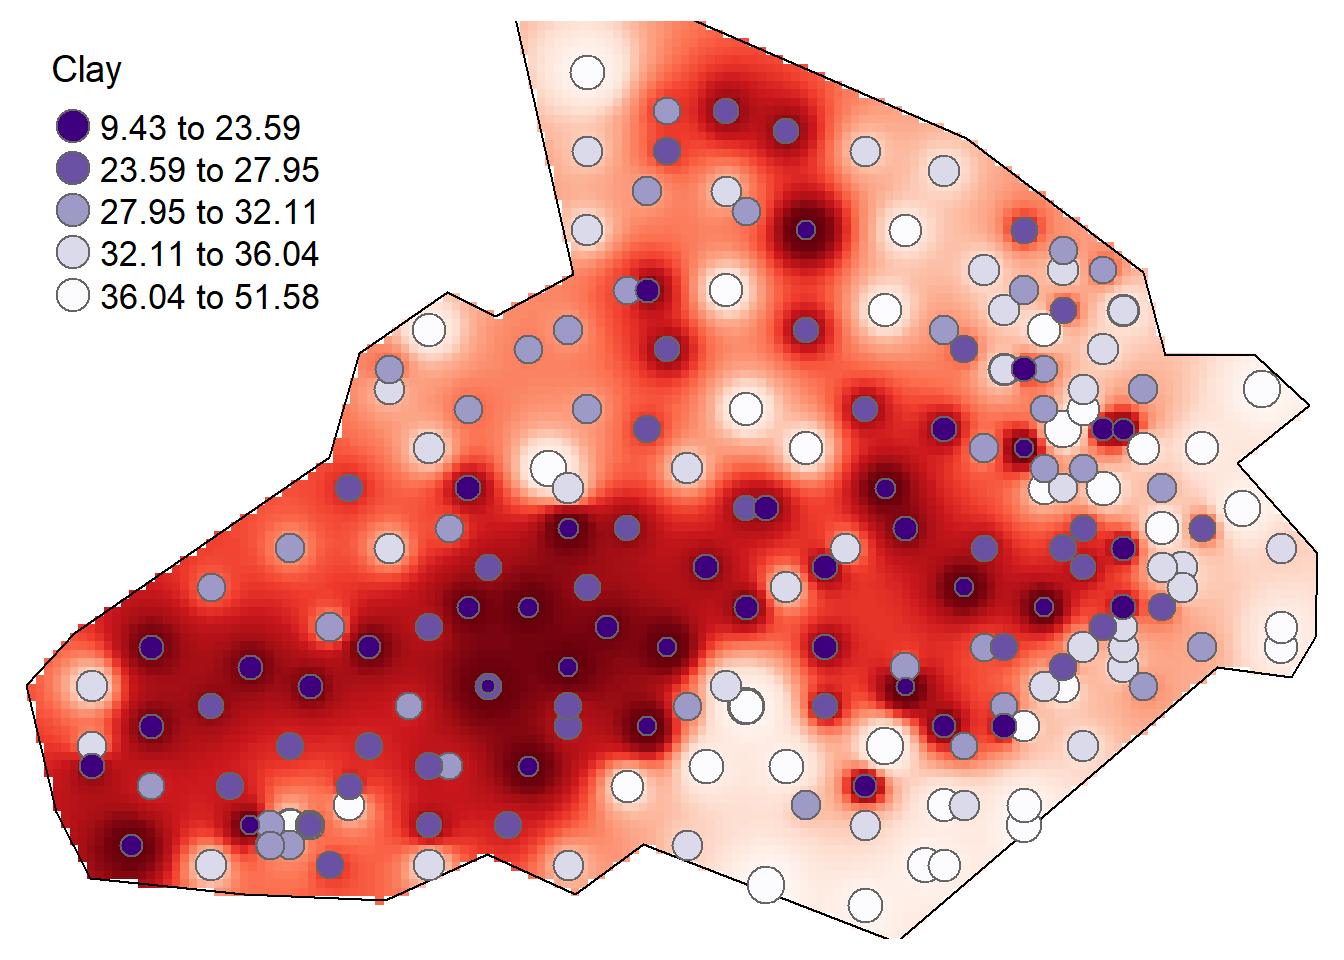
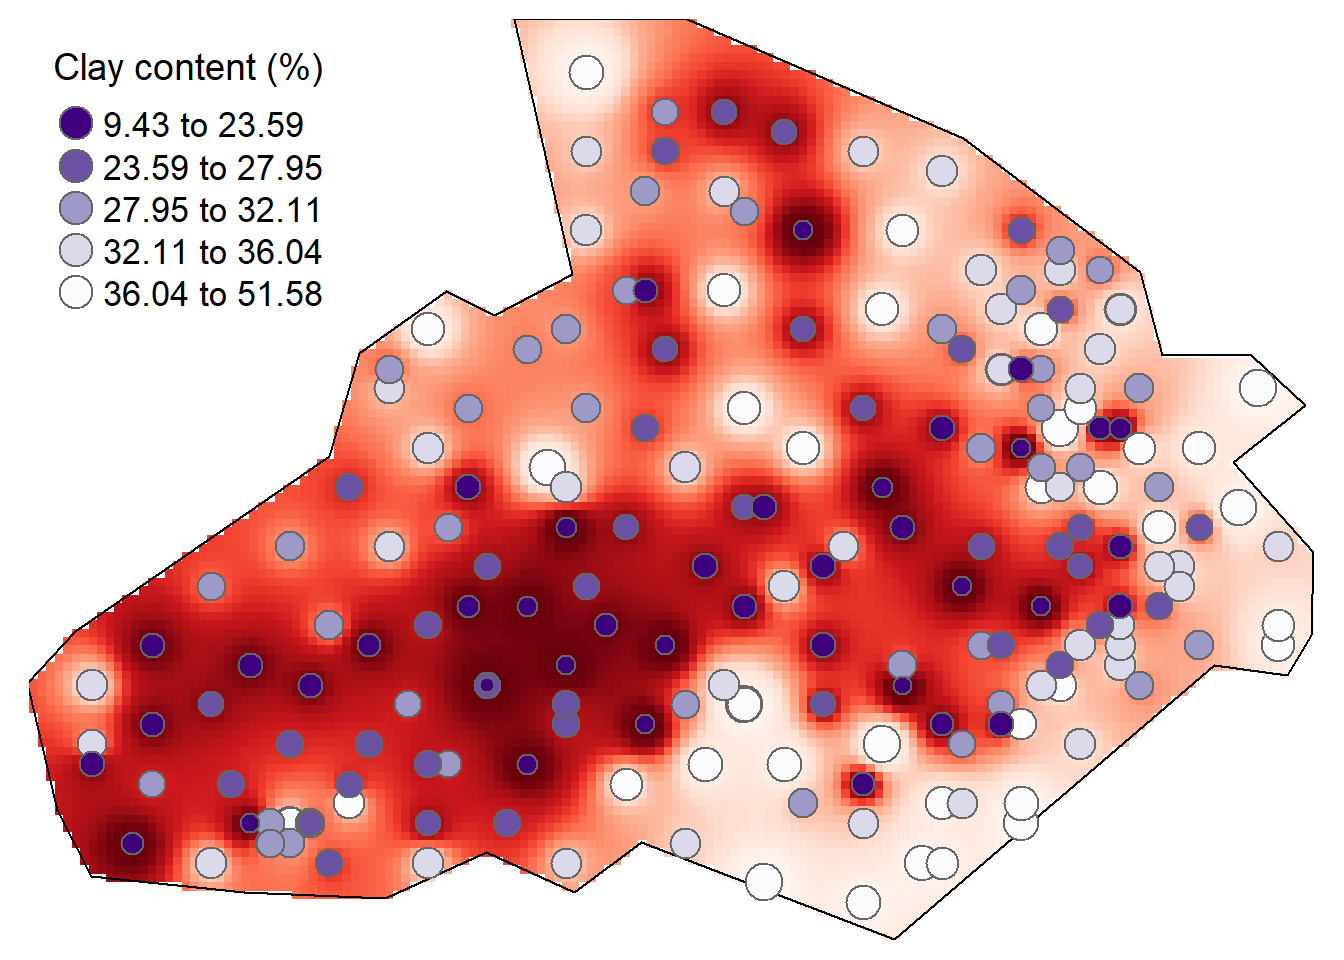
--Corected an bug in lesson 1

diff --git a/lesson3.html b/lesson3.html
@@ -455,7 +455,7 @@ tm_shape(bdy) + tm_borders(alpha=1, col = &quot;blue&quot;)</code></pre>
 <p>Overlay the original Clay data as this provides a good demonstration of how the IDW is distributed.</p>
 <pre class="r"><code>tm_shape(raster_idw) + tm_raster(&quot;prediction&quot;, style = &quot;quantile&quot;, n = 100, palette = &quot;-Reds&quot;,legend.show = FALSE) +
 tm_shape(bdy) + tm_borders(alpha=1, col=&quot;black&quot;) + 
-tm_shape(shp) + tm_bubbles(size = &quot;Clay&quot;, col = &quot;Clay&quot;, palette = &quot;-Purples&quot;, contrast=1, style = &quot;quantile&quot;, legend.size.show = FALSE, title.col = &quot;Clay&quot;) +
+tm_shape(shp) + tm_bubbles(size = &quot;Clay&quot;, col = &quot;Clay&quot;, palette = &quot;-Purples&quot;, contrast=1, style = &quot;quantile&quot;, legend.size.show = FALSE, title.col = &quot;Clay content (%)&quot;) +
 tm_layout(legend.position = c(&quot;left&quot;, &quot;top&quot;),  legend.text.size = 1.1, legend.title.size = 1.4, frame = FALSE, legend.bg.color = &quot;white&quot;, legend.bg.alpha = 0.5)</code></pre>
 <p><img src="lesson3_files/figure-html/idw8-1.png" width="672" /></p>
 </div>
@@ -478,7 +478,7 @@ for (i in 1:length(shp)) {
 <pre class="r"><code>sqrt( sum((idw.output$prediction - shp$Clay)^2) / length(shp$Clay))</code></pre>
 <pre><code>## Warning in idw.output$prediction - shp$Clay: longer object length is not a
 ## multiple of shorter object length</code></pre>
-<pre><code>## [1] 64.5259</code></pre>
+<pre><code>## [1] 64.62995</code></pre>
 </div>
 <div id="cross-validation" class="section level3">
 <h3>Cross-validation</h3>

diff --git a/lesson1.html b/lesson1.html
@@ -477,7 +477,7 @@ head(d, n=3)</code></pre>
 ## 2 CT258-6697 713625 73125     1.171975  2.298 51.57937 32.42703
 ## 3 CT258-6797 706625 73375     1.398217  1.510 35.93126 54.07674</code></pre>
 <p>Examine the spatial trend of the variables (Bulk density, Carbon, Sand and Clay).</p>
-<pre class="r"><code>p_load(gridExtra)
+<pre class="r"><code>pacman::p_load(gridExtra)
 coordinates(d) &lt;- c(&quot;X&quot;, &quot;Y&quot;)
 plots = lapply(names(d)[2:5], function(.x) spplot(d,.x,do.log = T, main=.x))
 do.call(grid.arrange, plots)</code></pre>
